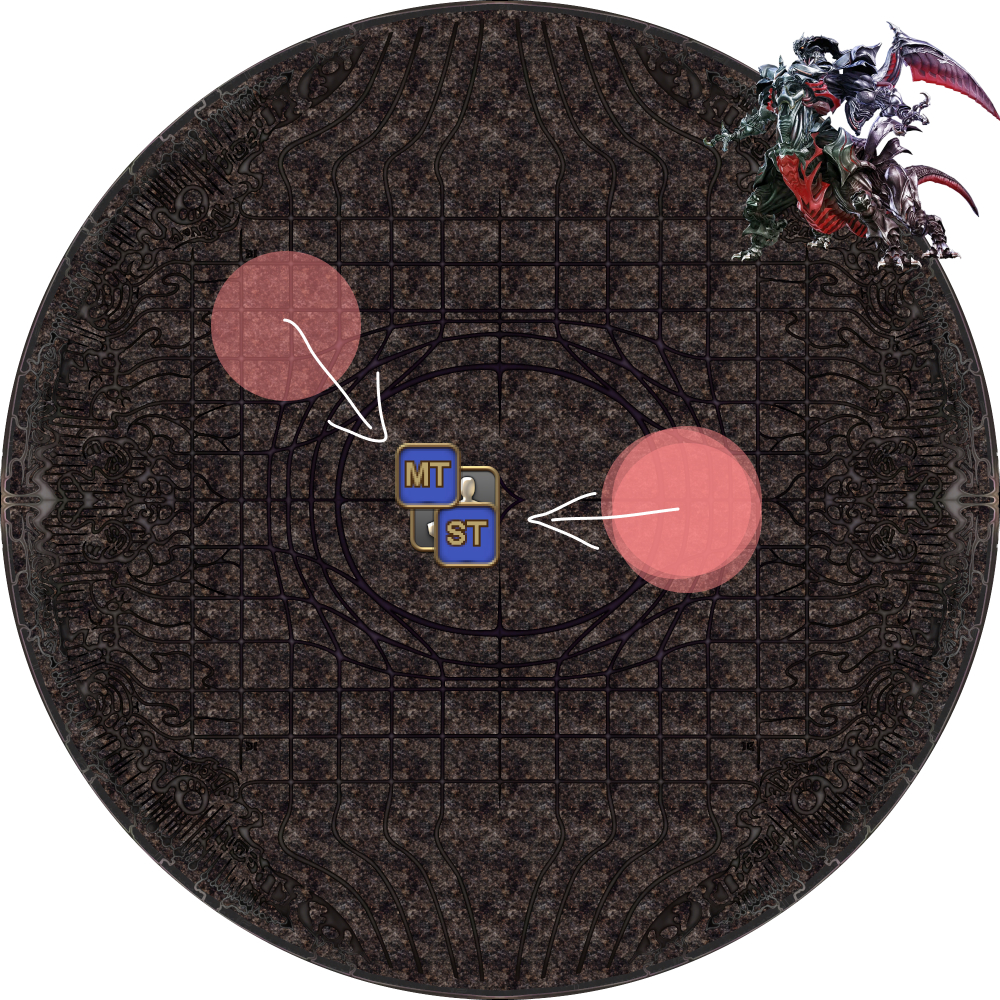
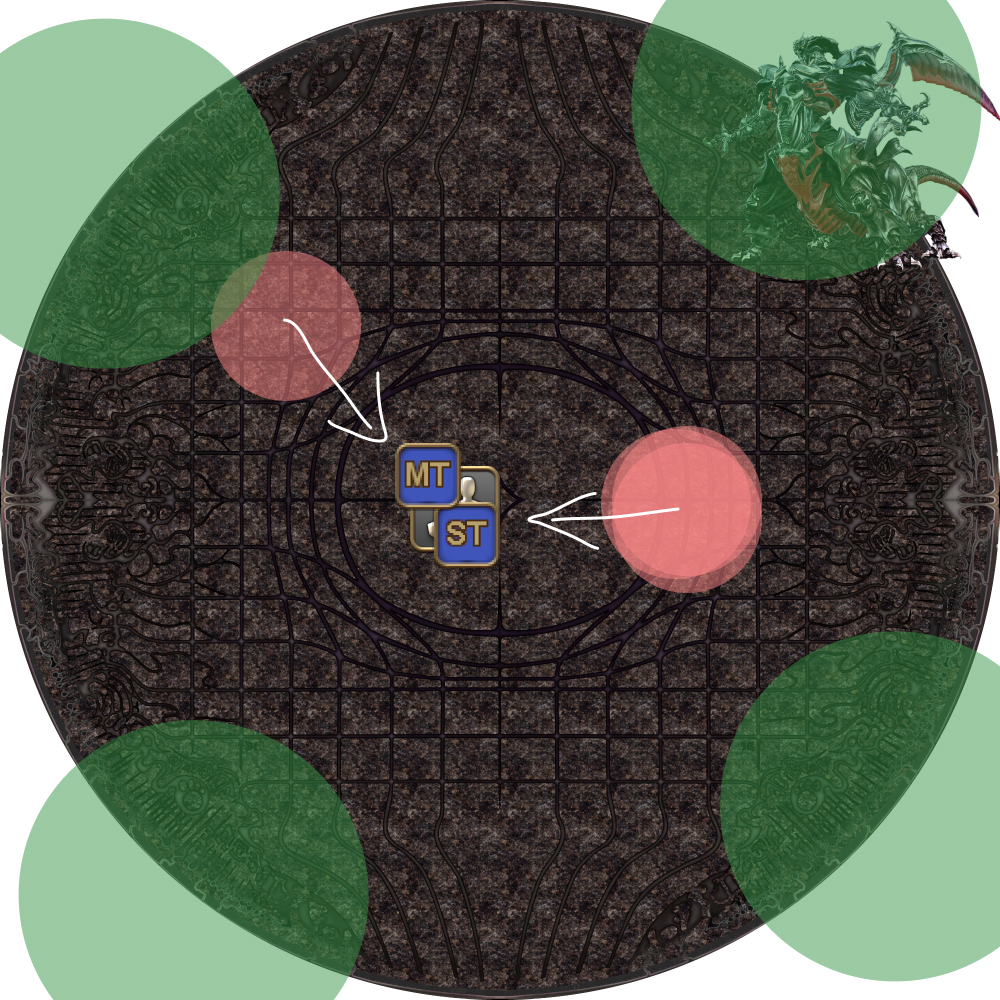
Add note on Featherlance AoEs at Suppression

diff --git a/ultimates/uwu/04c_suppression.en.md b/ultimates/uwu/04c_suppression.en.md
@@ -97,8 +97,17 @@ This phase is pushed when Ultima Weapon's HP drops below 50%.
 	<td><img src="{{site.baseurl}}/assets/images/ultimates/uwu/04c/suppression_17.jpg"></td>
   </tr>
   <tr>
-    <td><p><b>18.</b> Garuda jumps <em>(dodge Feather Rains)</em> and Ultima finishes casting Tank Purge.</p><p>Again, because there is also a Mesohigh tether AoE going off at this time, this is a lot of damage.</p></td>
-	<td><img src="{{site.baseurl}}/assets/images/ultimates/uwu/04c/suppression_18.jpg"></td>
+    <td>
+      <p><b>18.</b> Garuda jumps <em>(dodge Feather Rains)</em> and Ultima
+      finishes casting Tank Purge.</p>
+      <p>Again, because there is also a Mesohigh tether AoE going off at 
+      this time, this is a lot of damage. The feathers will also explode in a
+      point-blank <em>Featherlance</em> AoE, so the MT will also want to stay
+      away from the edge.</p>
+    </td>
+	<td>
+    <img src="{{site.baseurl}}/assets/images/ultimates/uwu/04c/suppression_18.jpg">
+  </td>
   </tr>
 </table>
 
